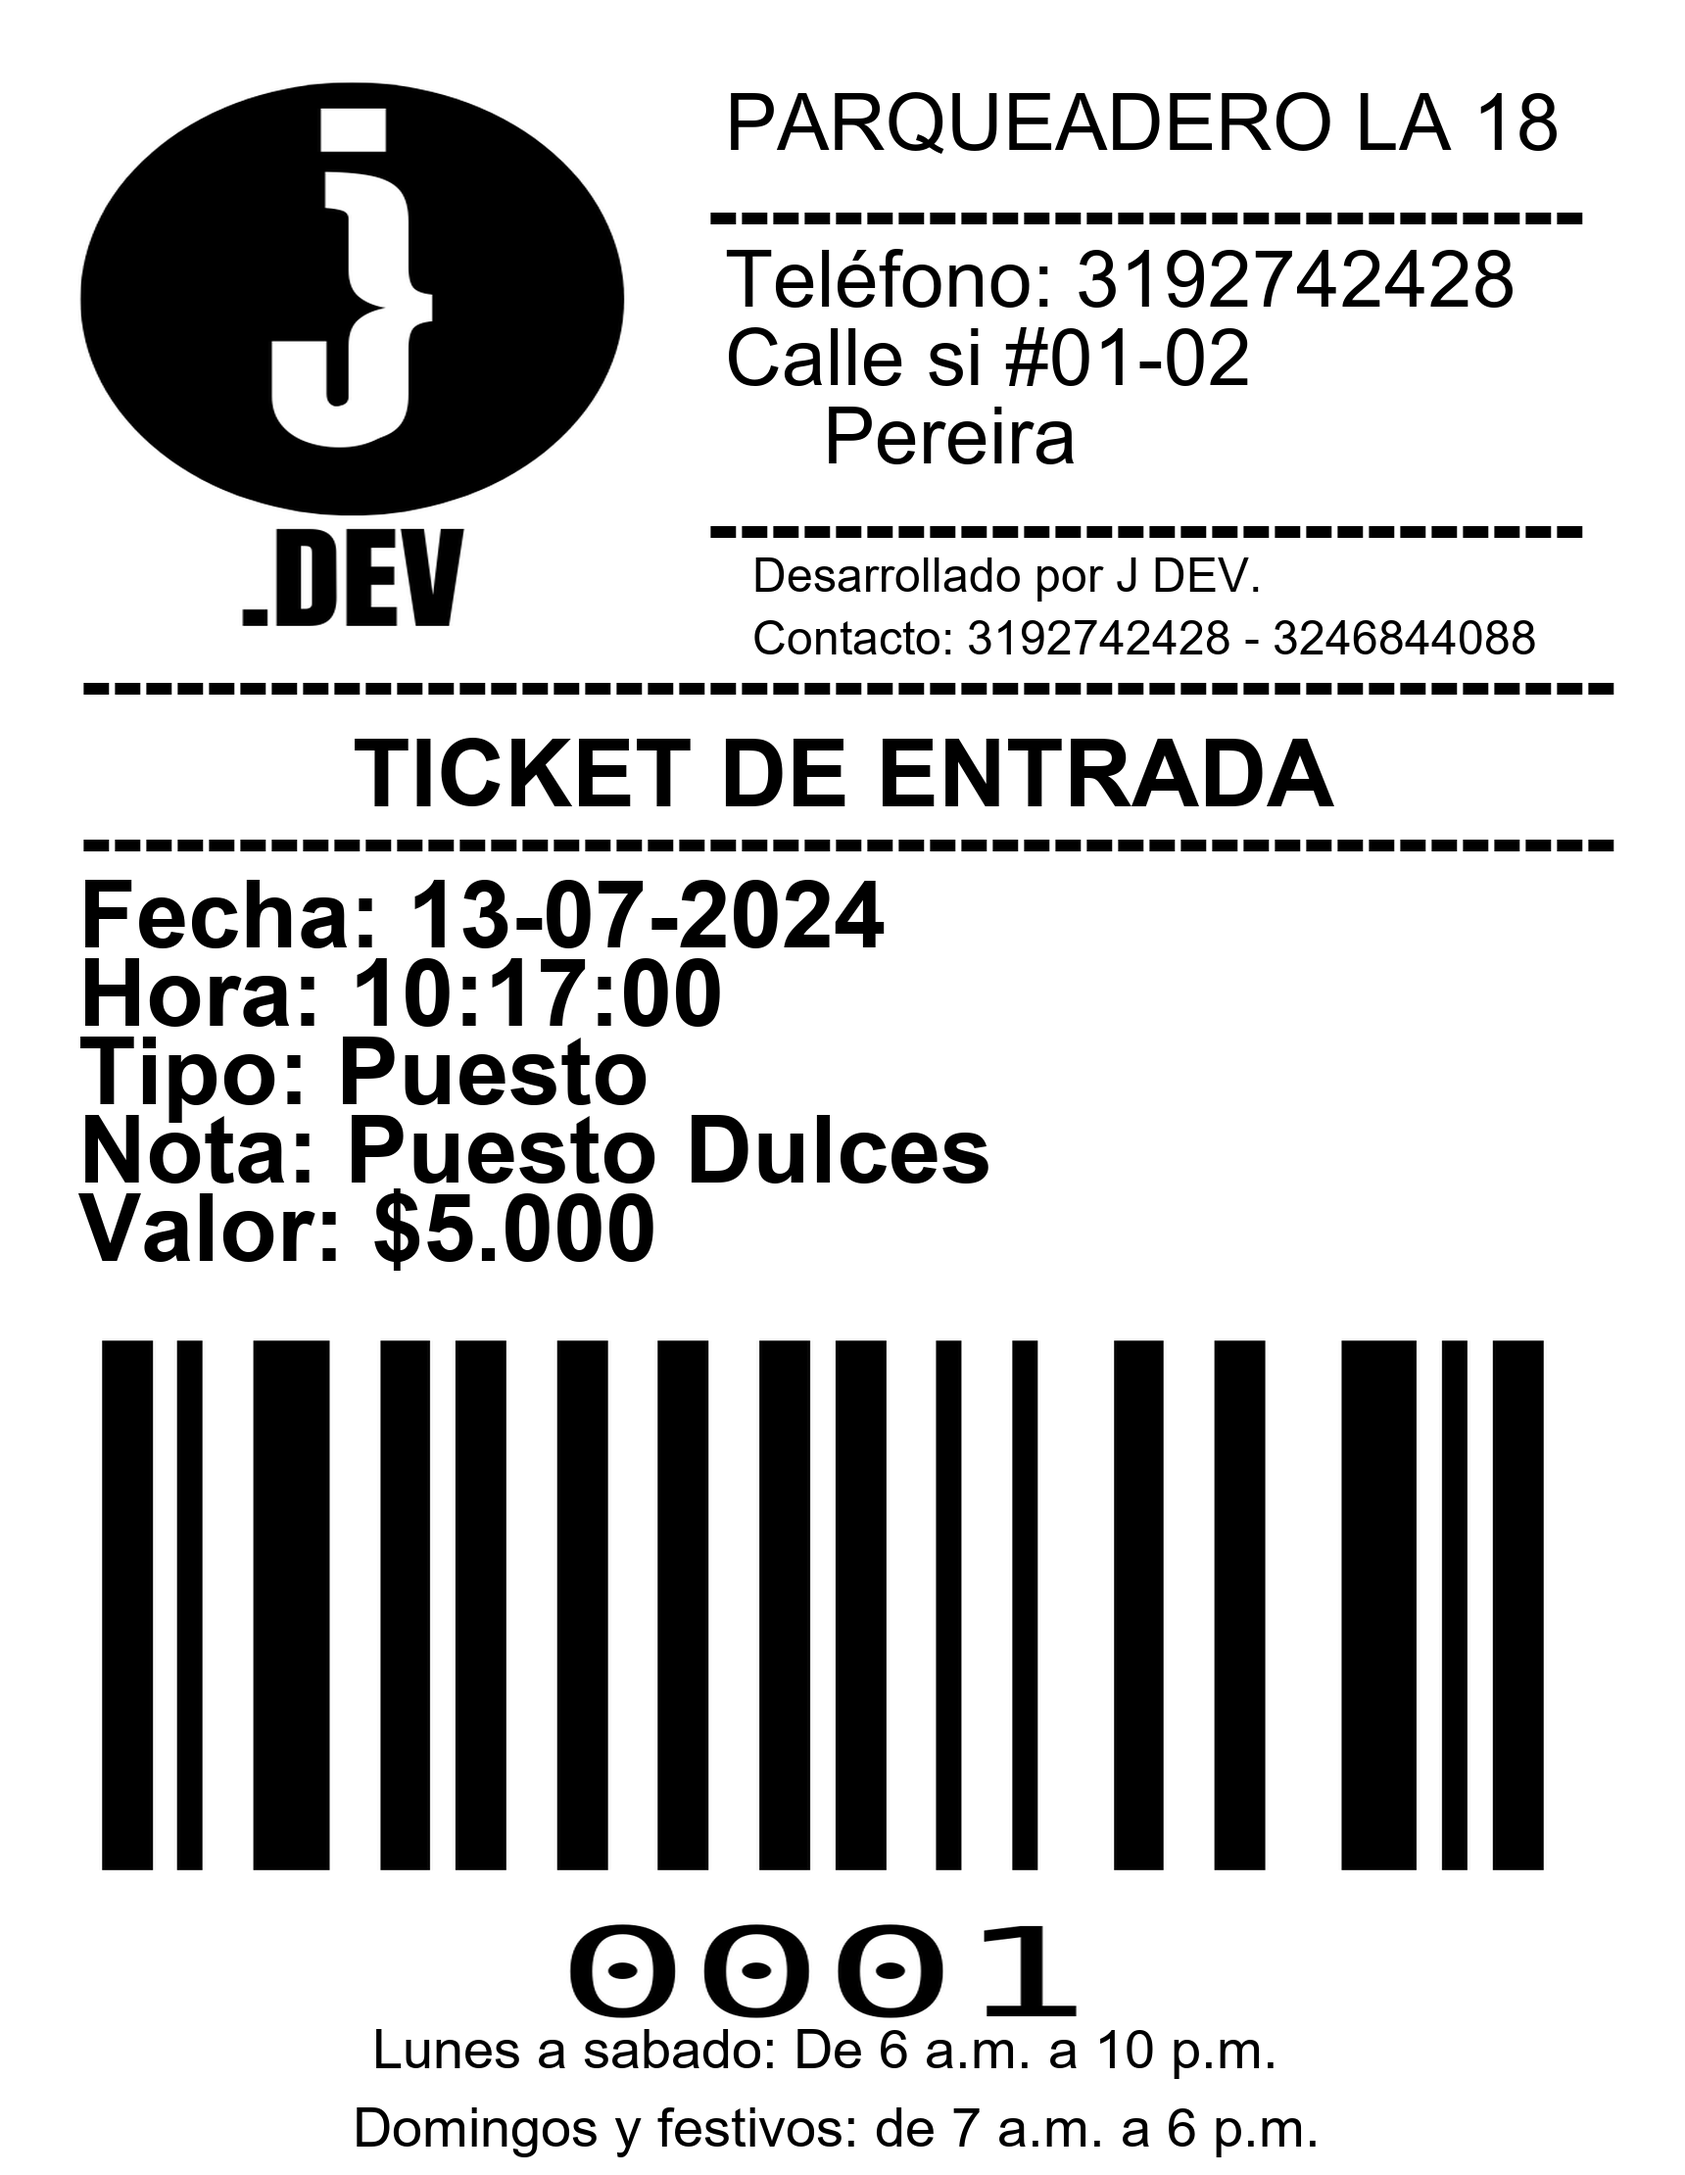
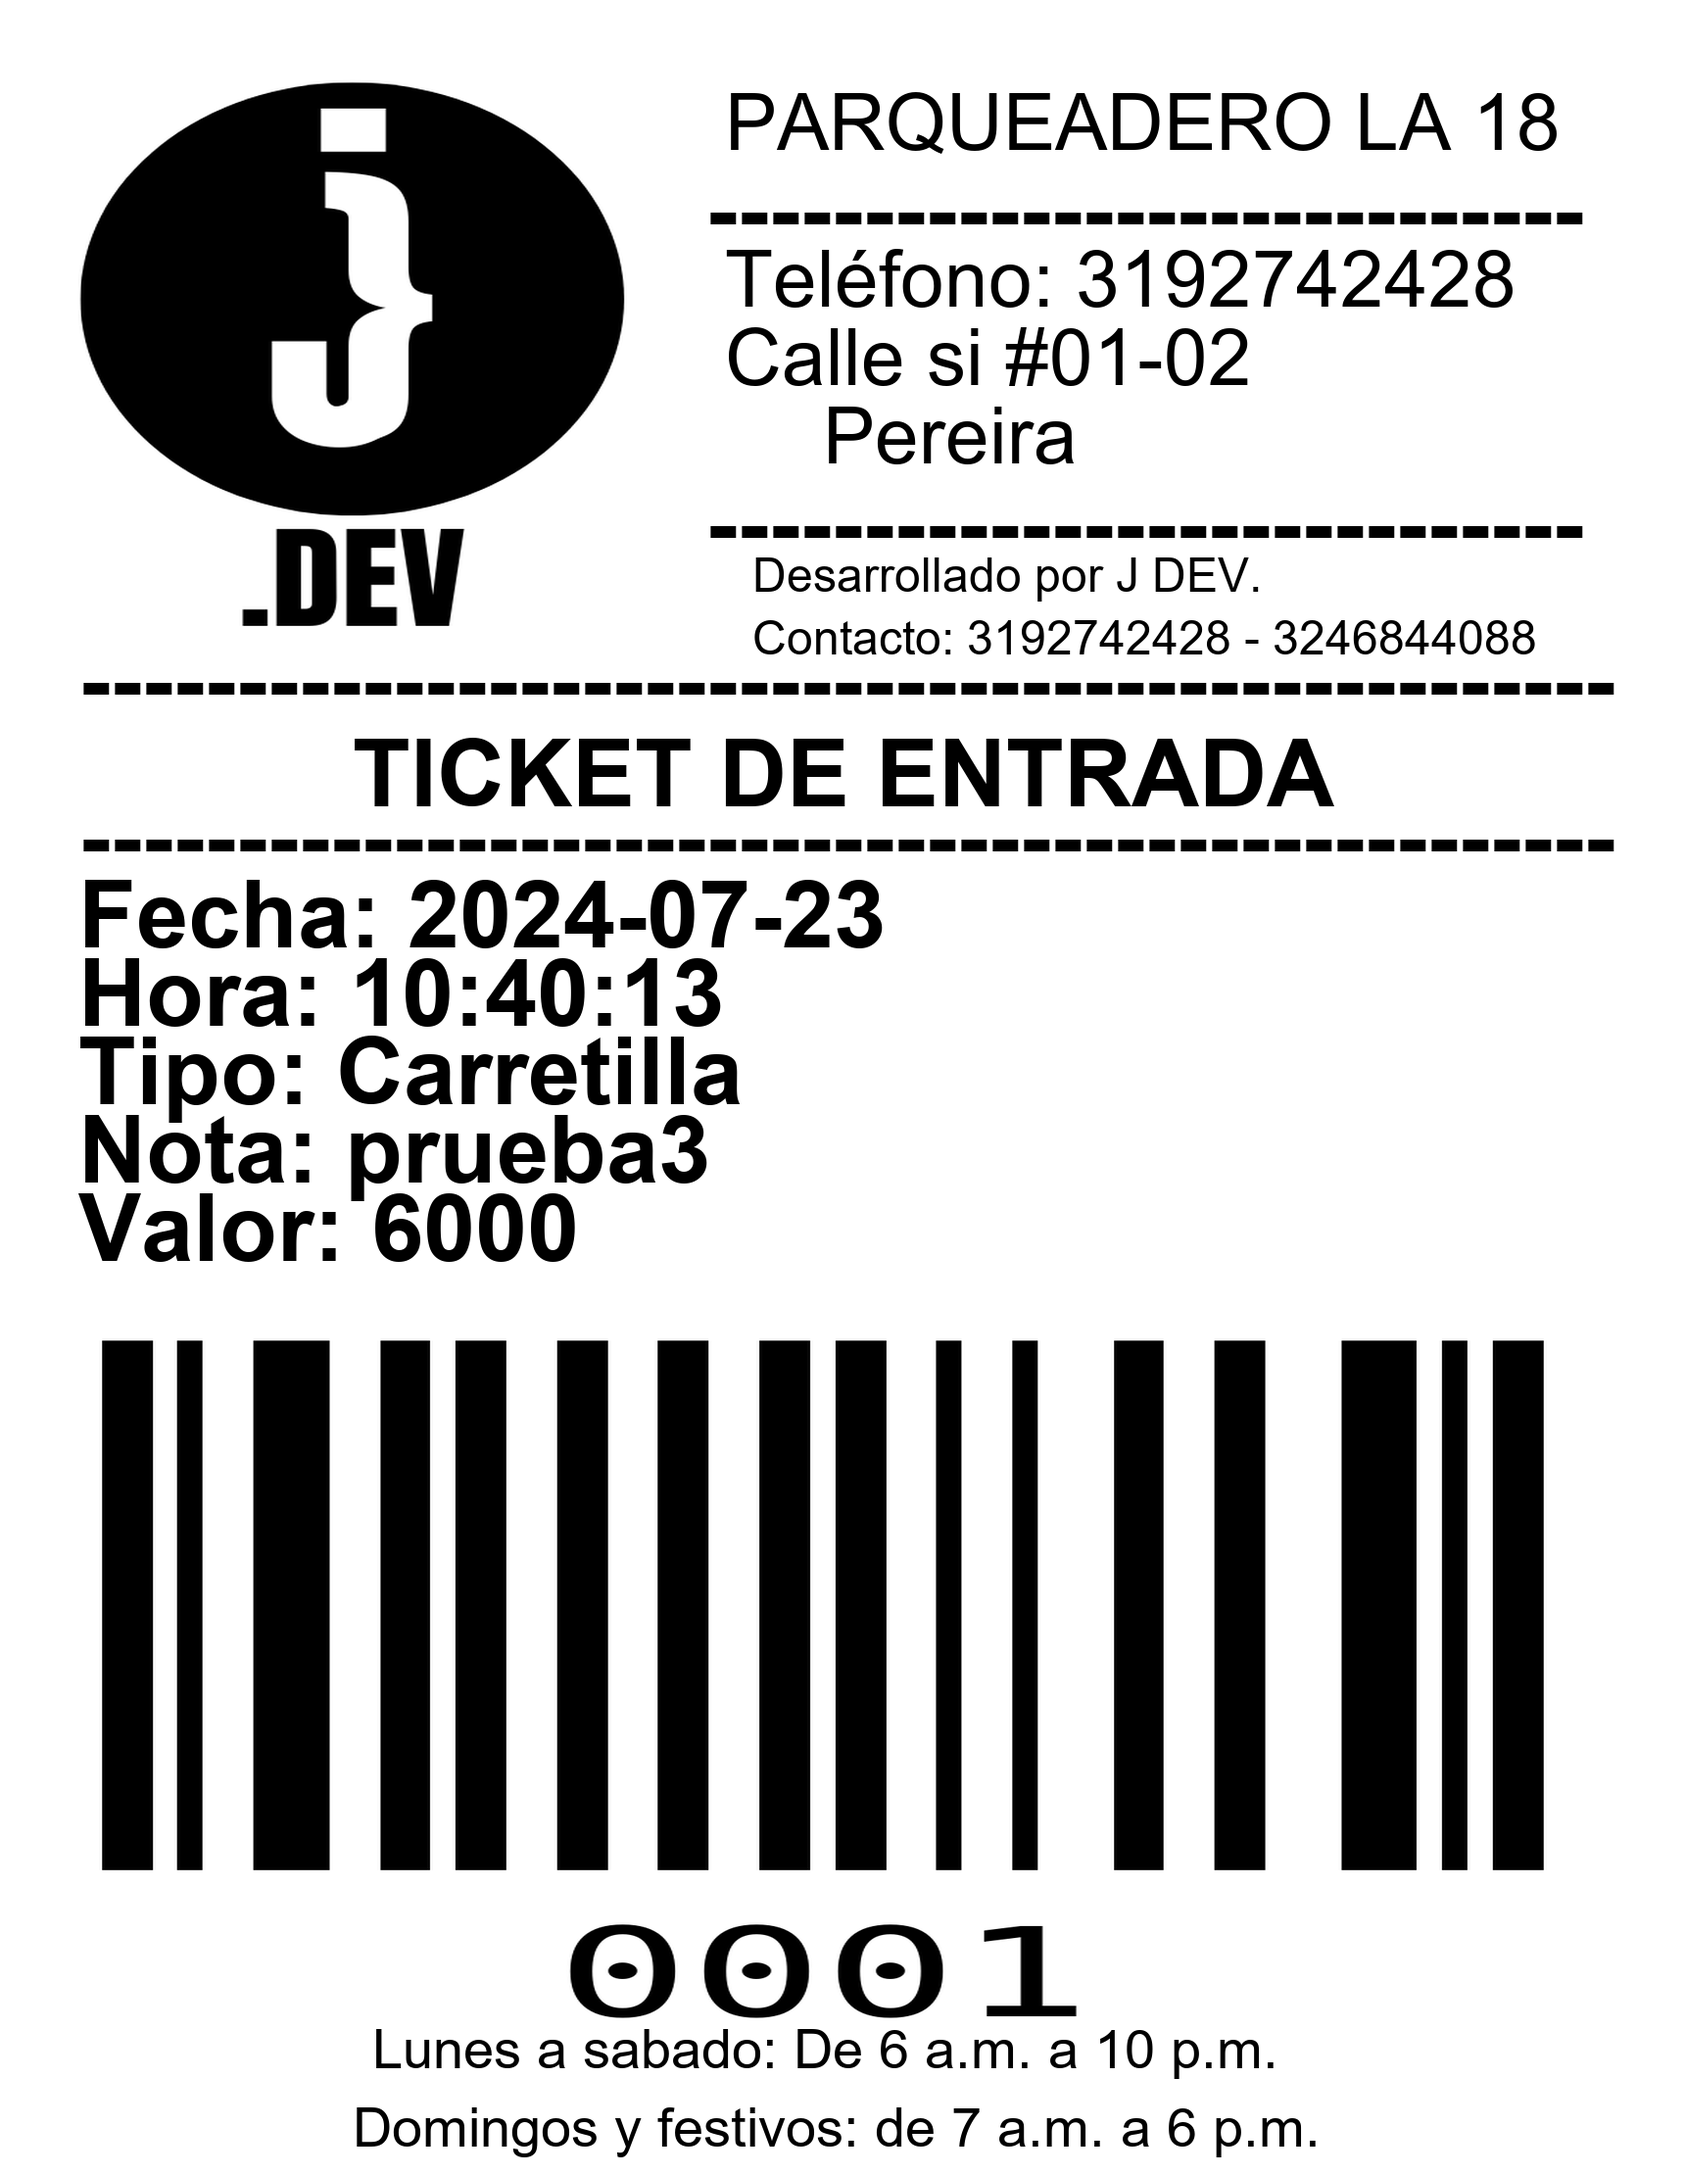
Se coneto TicketIngresoFijo a la DB

Changed region(s): [[0.1849, 0.4041, 0.5855, 0.5905], [0.493, 0.4041, 0.5238, 0.4351]]

diff --git a/TicketIngresoFijo.py b/TicketIngresoFijo.py
@@ -2,9 +2,18 @@ from PIL import Image, ImageDraw, ImageFont
 import barcode
 from barcode.writer import ImageWriter
 import os
-
+import win32print
+import win32ui
+from PIL import ImageWin
+def mm_to_pixels(mm, dpi):
+    return int((mm / 25.4) * dpi)
 # Función para generar y guardar el recibo como imagen con dimensiones de POS y logo
-def generarTicketIngresoFijo(Fecha, Hora,Tipo,Nota,Valor, codigo_barras, ruta_logo, ruta_guardado):
+def generarTicketIngresoFijo(Fecha, Hora,Tipo,Nota,Valor):
+    # Obtener la ruta del directorio actual
+    directorio_actual = os.path.dirname(os.path.abspath(__file__))
+    ruta_logo = os.path.join(directorio_actual, "Logo.png")
+    ruta_guardado = os.path.join(directorio_actual, "TicketIngresoFijo.png")
+    codigo_barras = "0001"
     # Dimensiones típicas de un recibo POS, aumentadas para mejorar calidad
     width, height = 1720, 2220  # Duplicar el tamaño original nuevamente para mejorar la calidad de impresión
     img = Image.new('RGB', (width, height), color='white')
@@ -64,18 +73,49 @@ def generarTicketIngresoFijo(Fecha, Hora,Tipo,Nota,Valor, codigo_barras, ruta_lo
     # Guardar la imagen en la ruta especificada
     img.save(ruta_guardado)
     print(f"Recibo Fijo generado y guardado en: {ruta_guardado}")
+    imprimirTicket(ruta_guardado)
 
-# Ejemplo de uso
-Tipo= "Puesto"
-Nota = "Puesto Dulces"
-Valor= "$5.000"
-Fecha = "13-07-2024"
-Hora = "10:17:00"
-codigo_barras = "0001"
-# Obtener la ruta del directorio actual
-directorio_actual = os.path.dirname(os.path.abspath(__file__))
+# Función para imprimir el recibo
+def imprimirTicket(ruta_archivo):
+    try:
+        # Obtener el nombre de la impresora predeterminada
+        impresora_predeterminada = win32print.GetDefaultPrinter()
+        print(f"Impresora predeterminada: {impresora_predeterminada}")
 
-ruta_logo = os.path.join(directorio_actual, "Logo.png")
-ruta_guardado = os.path.join(directorio_actual, "TicketIngresoFijo.png")
+        # Supongamos una resolución de impresora de 203 DPI
+        dpi = 203
+        paper_width_mm = 70  # Ajustar a 70mm para hacer la imagen más pequeña
+        paper_width_px = mm_to_pixels(paper_width_mm, dpi)
 
-generarTicketIngresoFijo(Fecha, Hora,Tipo,Nota,Valor, codigo_barras, ruta_logo, ruta_guardado)
+        # Abrir la impresora
+        hPrinter = win32print.OpenPrinter(impresora_predeterminada)
+        try:
+            # Crear un trabajo de impresión
+            hJob = win32print.StartDocPrinter(hPrinter, 1, ("TicketIngresoFijo", None, "RAW"))
+            try:
+                win32print.StartPagePrinter(hPrinter)
+                
+                # Cargar la imagen
+                bmp = Image.open(ruta_archivo)
+                bmp = bmp.resize((paper_width_px, int(bmp.height * (paper_width_px / bmp.width))), Image.LANCZOS)
+                dib = ImageWin.Dib(bmp)
+                
+                # Obtener el contexto de dispositivo
+                hDC = win32ui.CreateDC()
+                hDC.CreatePrinterDC(impresora_predeterminada)
+                
+                # Ajustar el tamaño de la imagen al tamaño del papel
+                hDC.StartDoc("TicketIngresoFijo")
+                hDC.StartPage()
+                dib.draw(hDC.GetHandleOutput(), (0, 0, bmp.size[0], bmp.size[1]))
+                hDC.EndPage()
+                hDC.EndDoc()
+                
+                win32print.EndPagePrinter(hPrinter)
+            finally:
+                win32print.EndDocPrinter(hPrinter)
+        finally:
+            win32print.ClosePrinter(hPrinter)
+        print("Impresión enviada correctamente.")
+    except Exception as e:
+        print(f"Error al intentar imprimir: {e}")

diff --git a/pagina_Tickets.py b/pagina_Tickets.py
@@ -397,6 +397,11 @@ class PaginaTickets(QWidget):
         self.stacked_widgetTickets.addWidget(page_ticketsSalidaMoto)
 
     def pantallaIngresarFijo(self):
+         # Crear la instancia de DatabaseConnection
+        db_connection = DatabaseConnection(DB_CONFIG)
+
+        # Abre la conexión a la base de datos
+        db_connection.open()
         # Pagina de ticketes salida moto
         page_ticketsIngresoFijo = QWidget()
         #layout de el registro de los tickets
@@ -462,7 +467,18 @@ class PaginaTickets(QWidget):
             "color: White; background-color: #222125; font-size: 30px; border-radius: 15px; padding: 15px 30px;")
         layout_ticketsIngresoFijo.addWidget(boton_Imprimir, 5, 3, 1, 1,
                                 alignment=Qt.AlignTop| Qt.AlignLeft)
-
+        # Conectar el botón de imprimir a la función registrarMoto
+        boton_Imprimir.clicked.connect(lambda: [
+            db_connection.registrarFijo(
+            combobox_Tipo.currentText(),
+            textbox_Nota.text(),
+            textbox_Valor.text(),
+        ),
+        combobox_Tipo.setCurrentIndex(0),
+        textbox_Nota.clear(),
+        textbox_Valor.clear(),
+        db_connection.close()
+    ])
         layout_ticketsIngresoFijo.setRowStretch(0, 0)
         layout_ticketsIngresoFijo.setRowStretch(1, 1)
         layout_ticketsIngresoFijo.setRowStretch(2, 1)

diff --git a/DatabaseConnection.py b/DatabaseConnection.py
@@ -3,6 +3,7 @@ import mysql.connector
 from mysql.connector import Error
 from datetime import datetime
 from TicketIngresoMoto import generarTicketIngresoMoto
+from TicketIngresoFijo import generarTicketIngresoFijo
 class DatabaseConnection:
     def __init__(self, config):
         self.config = config
@@ -52,3 +53,14 @@ class DatabaseConnection:
         params = (casillero, placa, cascos, tiempo, fecha_ingreso, hora_ingreso)
         self.execute_query(query, params)
         generarTicketIngresoMoto(tiempo, placa, cascos, casillero, fecha_ingreso, hora_ingreso)
+    
+    def registrarFijo(self, Tipo, Nota, Valor):
+            fecha_ingreso = datetime.now().strftime('%Y-%m-%d')
+            hora_ingreso = datetime.now().strftime('%H:%M:%S')
+            query = """
+            INSERT INTO Fijos (Tipo, Nota, Valor, fechaIngreso, horaIngreso)
+            VALUES (%s, %s, %s, %s, %s)
+            """
+            params = (Tipo, Nota, Valor, fecha_ingreso, hora_ingreso)
+            self.execute_query(query, params)
+            generarTicketIngresoFijo(fecha_ingreso, hora_ingreso,Tipo, Nota, Valor)
